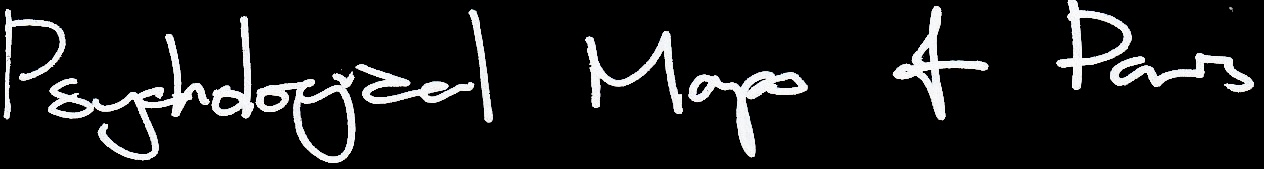
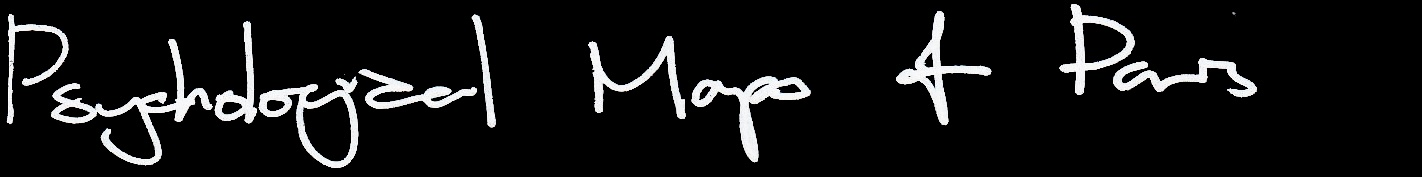
more changes

Changed region(s): [[0.0, 0.0, 1.0, 0.9763], [0.3085, 0.0888, 0.3394, 0.2663]]

diff --git a/notes-references-appendix.html b/notes-references-appendix.html
@@ -35,7 +35,7 @@
     <div class="fixed">
         <h1 id="fixed">
             <div class="hover">
-                <a> Notes, References, Appendix </a>
+                <img class="title" src="images/12.jpg">
             </div>
             <div class="hide hover">
                 <a href="introduction.html">Introduction</a>
@@ -64,39 +64,11 @@
     </div>
     <div class="container">
         <div class="left">
-            <a href="javascript:history.back()">←</a>
-            <a><button id="theme-toggle">☯</button></a>
-            <a href="javascript:history.forward()">→</a>
+            <a class="normal" href="javascript:history.back()">←</a>
+            <a class="normal"><button id="theme-toggle">☯</button></a>
+            <a class="normal" href="javascript:history.forward()">→</a>
         </div>
         <div class="right">
-            <p>
-                <a href="introduction.html">In</a> this paper we described a number of psychological <a
-                    href="handdrawn-maps.html">maps</a> of <a href="paris-as-a-collective-representation.html">Paris</a>
-                generated by its inhabitants,
-                detailed representations of the city expressed <a href="introduction.html">in</a> cartographic form,
-                rather than as simple opinions,
-                attitudes, and words. The peculiar value of such mental <a href="handdrawn-maps.html">maps</a> is that
-                they tease out the person’s view of
-                a city <a href="introduction.html">in</a> a way that permits a ready comparison with the reality. They
-                allow a treatment of the city’s
-                spatial character <a href="introduction.html">in</a> a way that words frequently avoid. And they show
-                how urban space is encoded,
-                distorted, and selectively represented, while yet retaining its usefulness to the person. For the image
-                of the city is not just extra mental baggage; it is the necessary accompaniment to living <a
-                    href="introduction.html">in</a> a complex
-                and highly variegated environment.
-            </p>
-            <br>
-            <p>
-                Such <a href="handdrawn-maps.html">maps</a> are multi-dimensional.
-                They contain cognitive
-                and also emotional and intuitive components, and
-                a variety of procedures is needed to bring them to light. The <a href="handdrawn-maps.html">maps</a> are
-                not only individual products;
-                they are shaped by social factors, and therefore acquire the status of a collective representations—that
-                is, symbolic configurations of belief and knowledge promoted and disseminated by the culture.
-            </p>
-
         </div>
     </div>
 </body>

diff --git a/social-perceptions.html b/social-perceptions.html
@@ -35,9 +35,7 @@
     <div class="fixed">
         <h1 id="fixed">
             <div class="hover">
-                <a href="javascript:history.back()">←</a>
-                <a> Social Perceptions </a>
-                <a href="javascript:history.forward()">→</a>
+                <img class="title" src="images/10.jpg">
             </div>
             <div class="hide hover">
                 <a href="introduction.html">Introduction</a>
@@ -67,9 +65,9 @@
     </div>
     <div class="container">
         <div class="left">
-            <a href="javascript:history.back()">←</a>
-            <a><button id="theme-toggle">☯</button></a>
-            <a href="javascript:history.forward()">→</a>
+            <a class="normal" href="javascript:history.back()">←</a>
+            <a class="normal"><button id="theme-toggle">☯</button></a>
+            <a class="normal" href="javascript:history.forward()">→</a>
         </div>
         <div class="right">
             <p>

diff --git a/recognition-of-parisian-scenes.html b/recognition-of-parisian-scenes.html
@@ -35,7 +35,7 @@
     <div class="fixed">
         <h1 id="fixed">
             <div class="hover">
-                <a> Recognition of Parisian Scenes </a>
+                <img class="title" src="images/8.jpg">
             </div>
             <div class="hide hover">
                 <a href="introduction.html">Introduction</a>
@@ -64,9 +64,9 @@
     </div>
     <div class="container">
         <div class="left">
-            <a href="javascript:history.back()">←</a>
-            <a><button id="theme-toggle">☯</button></a>
-            <a href="javascript:history.forward()">→</a>
+            <a class="normal" href="javascript:history.back()">←</a>
+            <a class="normal"><button id="theme-toggle">☯</button></a>
+            <a class="normal" href="javascript:history.forward()">→</a>
         </div>
         <div class="right">
             <img class="blend" src="images/8.9 2.png">

diff --git a/links.html b/links.html
@@ -35,7 +35,7 @@
     <div class="fixed">
         <h1 id="fixed">
             <div class="hover">
-                <a> Links </a>
+                <img class="title" src="images/7.jpg">
             </div>
             <div class="hide hover">
                 <a href="introduction.html">Introduction</a>
@@ -64,9 +64,9 @@
     </div>
     <div class="container">
         <div class="left">
-            <a href="javascript:history.back()">←</a>
-            <a><button id="theme-toggle">☯</button></a>
-            <a href="javascript:history.forward()">→</a>
+            <a class="normal" href="javascript:history.back()">←</a>
+            <a class="normal"><button id="theme-toggle">☯</button></a>
+            <a class="normal" href="javascript:history.forward()">→</a>
         </div>
         <div class="right">
             <img class="blend" src="images/Table 8.1 2.png">

diff --git a/paris-as-a-collective-representation.html b/paris-as-a-collective-representation.html
@@ -35,7 +35,7 @@
     <div class="fixed">
         <h1 id="fixed">
             <div class="hover">
-                <a> Paris as a Collective Representation </a>
+                <img class="title" src="images/4.jpg">
             </div>
             <div class="hide hover">
                 <a href="introduction.html">Introduction</a>
@@ -64,9 +64,9 @@
     </div>
     <div class="container">
         <div class="left">
-            <a href="javascript:history.back()">←</a>
-            <a><button id="theme-toggle">☯</button></a>
-            <a href="javascript:history.forward()">→</a>
+            <a class="normal" href="javascript:history.back()">←</a>
+            <a class="normal"><button id="theme-toggle">☯</button></a>
+            <a class="normal" href="javascript:history.forward()">→</a>
         </div>
         <div class="right">
             <p>

diff --git a/paris-known-and-unknown.html b/paris-known-and-unknown.html
@@ -35,7 +35,7 @@
     <div class="fixed">
         <h1 id="fixed">
             <div class="hover">
-                <a> Paris, Known and Unknown </a>
+                <img class="title" src="images/9.jpg">
             </div>
             <div class="hide hover">
                 <a href="introduction.html">Introduction</a>
@@ -64,9 +64,9 @@
     </div>
     <div class="container">
         <div class="left">
-            <a href="javascript:history.back()">←</a>
-            <a><button id="theme-toggle">☯</button></a>
-            <a href="javascript:history.forward()">→</a>
+            <a class="normal" href="javascript:history.back()">←</a>
+            <a class="normal"><button id="theme-toggle">☯</button></a>
+            <a class="normal" href="javascript:history.forward()">→</a>
         </div>
         <div class="right">
             <p>

diff --git a/intuitions-and-secrets.html b/intuitions-and-secrets.html
@@ -35,7 +35,7 @@
     <div class="fixed">
         <h1 id="fixed">
             <div class="hover">
-                <a> Intuitions and Secrets </a>
+                <img class="title" src="images/11.jpg">
             </div>
             <div class="hide hover">
                 <a href="introduction.html">Introduction</a>
@@ -64,9 +64,9 @@
     </div>
     <div class="container">
         <div class="left">
-            <a href="javascript:history.back()">←</a>
-            <a><button id="theme-toggle">☯</button></a>
-            <a href="javascript:history.forward()">→</a>
+            <a class="normal" href="javascript:history.back()">←</a>
+            <a class="normal"><button id="theme-toggle">☯</button></a>
+            <a class="normal" href="javascript:history.forward()">→</a>
         </div>
         <div class="right">
             <p>

diff --git a/the-major-elements.html b/the-major-elements.html
@@ -35,7 +35,7 @@
     <div class="fixed">
         <h1 id="fixed">
             <div class="hover">
-                <a> The Major Elements </a>
+                <img class="title" src="images/6.jpg">
             </div>
             <div class="hide hover">
                 <a href="introduction.html">Introduction</a>
@@ -64,9 +64,9 @@
     </div>
     <div class="container">
         <div class="left">
-            <a href="javascript:history.back()">←</a>
-            <a><button id="theme-toggle">☯</button></a>
-            <a href="javascript:history.forward()">→</a>
+            <a class="normal" href="javascript:history.back()">←</a>
+            <a class="normal"><button id="theme-toggle">☯</button></a>
+            <a class="normal" href="javascript:history.forward()">→</a>
         </div>
         <div class="right">
             <p>

diff --git a/emerging-elements.html b/emerging-elements.html
@@ -35,7 +35,7 @@
     <div class="fixed">
         <h1 id="fixed">
             <div class="hover">
-                <a> Emerging Elements </a>
+                <img class="title" src="images/5.jpg">
             </div>
             <div class="hide hover">
                 <a href="introduction.html">Introduction</a>
@@ -64,9 +64,9 @@
     </div>
     <div class="container">
         <div class="left">
-            <a href="javascript:history.back()">←</a>
-            <a><button id="theme-toggle">☯</button></a>
-            <a href="javascript:history.forward()">→</a>
+            <a class="normal" href="javascript:history.back()">←</a>
+            <a class="normal"><button id="theme-toggle">☯</button></a>
+            <a class="normal" href="javascript:history.forward()">→</a>
         </div>
         <div class="right">
             <p>

diff --git a/handdrawn-maps.html b/handdrawn-maps.html
@@ -35,7 +35,7 @@
     <div class="fixed">
         <h1 id="fixed">
             <div class="hover">
-                <a> Hand-drawn Maps </a>
+                <img class="title" src="images/3.jpg">
             </div>
             <div class="hide hover">
                 <a href="introduction.html">Introduction</a>
@@ -64,9 +64,9 @@
     </div>
     <div class="container">
         <div class="left">
-            <a href="javascript:history.back()">←</a>
-            <a><button id="theme-toggle">☯</button></a>
-            <a href="javascript:history.forward()">→</a>
+            <a class="normal" href="javascript:history.back()">←</a>
+            <a class="normal"><button id="theme-toggle">☯</button></a>
+            <a class="normal" href="javascript:history.forward()">→</a>
         </div>
         <div class="right">
             <p>

diff --git a/introduction.html b/introduction.html
@@ -35,7 +35,7 @@
     <div class="fixed">
         <h1 id="fixed">
             <div class="hover">
-                <a> Introduction </a>
+                <img class="title" src="images/2.jpg">
             </div>
             <div class="hide hover">
                 <a href="index.html"><u>Back to Home</u></a>
@@ -64,9 +64,9 @@
     </div>
     <div class="container">
         <div class="left">
-            <a href="javascript:history.back()">←</a>
-            <a><button id="theme-toggle">☯</button></a>
-            <a href="javascript:history.forward()">→</a>
+            <a class="normal" href="javascript:history.back()">←</a>
+            <a class="normal"><button id="theme-toggle">☯</button></a>
+            <a class="normal" href="javascript:history.forward()">→</a>
         </div>
         <div class="right">
             <p>

diff --git a/index.html b/index.html
@@ -64,9 +64,9 @@
     </div>
     <div class="container">
         <div class="left">
-            <a href="javascript:history.back()">←</a>
-            <a><button id="theme-toggle">☯</button></a>
-            <a href="javascript:history.forward()">→</a>
+            <a class="normal" href="javascript:history.back()">←</a>
+            <a class="normal"><button id="theme-toggle">☯</button></a>
+            <a class="normal" href="javascript:history.forward()">→</a>
         </div>
         <div class="right">
             <p class="paragraph">
